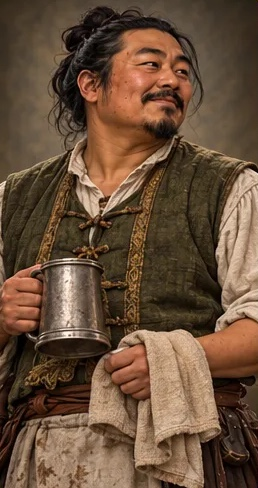
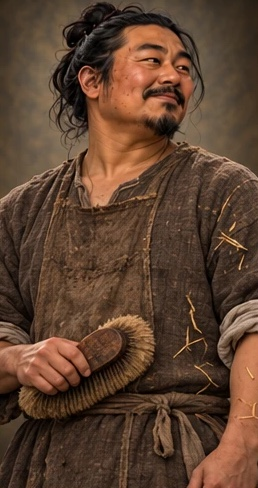
Replace the townsfolk paintings and match their map figures to the new ones
Use these images for townsfolk instead of the ones I gave you before.

diff --git a/Sources/Ezerian/ArtPainted.swift b/Sources/Ezerian/ArtPainted.swift
@@ -3,13 +3,13 @@ import simd
 
 /// Folk with painted portraits, by trade: the bards, the peasants and the human
 /// townsmen and townswomen. Each one's figure on the map wears the painting's colours
-/// and hat, and holds what they hold in it (an instrument, a hoe, a loaf, a tankard). The bard sheet's horned, red-skinned fiddler belongs
+/// and hat, and holds what they hold in it (an instrument, a hoe, a loaf, a broom). The bard sheet's horned, red-skinned fiddler belongs
 /// to no race of Ezerian, so bard painting 4 is not used.
 enum PaintedFolk {
     enum Prop {
         case lute, lyre, drum, flute, harp, tambourine, hurdyGurdy
         case hoe, flourSack, woodAxe, crook, net, vegetables, loaf, spindle, bucket, herbs
-        case scales, hammer, book, boot, tankard, cloth, jug, mortar, hoop, candles
+        case sack, rope, broom, tray, brush, laundry, jug, pot, crate
     }
     enum Hat { case none, feather, straw, cap(UInt32), scarf(UInt32), hood }
 
@@ -81,30 +81,31 @@ enum PaintedFolk {
 
     /// Human townsmen and townswomen, each with the tools or wares of a town trade.
     static let townsfolk: [Painted] = [
-        Painted(role: "townsperson", painting: "townsfolk-0", look: look(.human, female: false, skin: 0xE0A882, hair: 0x5A4A3A, tunic: 0x7A1E2A,
-                                                                        legs: 0x3A2A22, cape: 0x5A3A22, longHair: false, beard: true),
-                prop: .scales, hat: .cap(0x6A1A24)),
-        Painted(role: "townsperson", painting: "townsfolk-1", look: look(.human, female: false, skin: 0x4A2E1E, hair: 0x1A1410, tunic: 0xD8CCB0,
-                                                                        legs: 0x4A3A2A, longHair: false, beard: true), prop: .hammer, apron: leather),
-        Painted(role: "townsperson", painting: "townsfolk-2", look: look(.human, female: false, skin: 0xE0B890, hair: 0xC8C4C0, tunic: 0x1E2448,
-                                                                        legs: 0x1E2448, longHair: false, beard: true, dress: true),
-                prop: .book, hat: .cap(0x1E2448)),
-        Painted(role: "townsperson", painting: "townsfolk-3", look: look(.human, female: false, skin: 0xC8946A, hair: 0x2A1A10, tunic: 0x8A3A2A,
-                                                                        legs: 0x4A3A2A, longHair: false, beard: true), prop: .boot, apron: 0x6A4A2A),
-        Painted(role: "townsperson", painting: "townsfolk-4", look: look(.human, female: false, skin: 0xD8A87A, hair: 0x1A1410, tunic: 0x3A4A2A,
-                                                                        legs: 0x4A3A2A, longHair: false, beard: true), prop: .tankard, apron: linen),
-        Painted(role: "townsperson", painting: "townsfolk-5", look: look(.human, female: true, skin: 0x4A2E1E, hair: 0x1A1410, tunic: 0x1E4A5A,
-                                                                        legs: 0x1E4A5A, cape: 0x1E4A5A, longHair: true, dress: true), prop: .cloth),
-        Painted(role: "townsperson", painting: "townsfolk-6", look: look(.human, female: true, skin: 0xF0C8A0, hair: 0xB8481E, tunic: 0xD8CCB0,
-                                                                        legs: 0x8A5A34, longHair: false, dress: true),
-                prop: .jug, hat: .scarf(0xD8CCB0), apron: 0x8A5A34),
-        Painted(role: "townsperson", painting: "townsfolk-7", look: look(.human, female: true, skin: 0xB8805A, hair: 0x8A8680, tunic: 0x4A2236,
-                                                                        legs: 0x4A2236, longHair: true, dress: true), prop: .mortar),
-        Painted(role: "townsperson", painting: "townsfolk-8", look: look(.human, female: true, skin: 0xE8C0A0, hair: 0xC8C4C0, tunic: 0x4A5A32,
-                                                                        legs: 0x4A5A32, cape: 0x7A2A22, longHair: false, dress: true),
-                prop: .hoop, hat: .scarf(0xD8CCB0), apron: linen),
-        Painted(role: "townsperson", painting: "townsfolk-9", look: look(.human, female: true, skin: 0xF0D0B0, hair: 0x1A1410, tunic: 0xB08A3A,
-                                                                        legs: 0xB08A3A, longHair: false, dress: true), prop: .candles, apron: linen),
+        Painted(role: "townsperson", painting: "townsfolk-0", look: look(.human, female: false, skin: 0xE8A88A, hair: 0x4A4440, tunic: 0x5A3A22,
+                                                                        legs: 0x4A3A2A, longHair: false, beard: true), prop: .sack),
+        Painted(role: "townsperson", painting: "townsfolk-1", look: look(.human, female: false, skin: 0x3A2418, hair: 0x14100C, tunic: 0xB8AA90,
+                                                                        legs: 0x5A4A3A, longHair: false), prop: .rope),
+        Painted(role: "townsperson", painting: "townsfolk-2", look: look(.human, female: false, skin: 0xE0B090, hair: 0xC8C4C0, tunic: 0x5A6044,
+                                                                        legs: 0x4A4A3A, longHair: false, beard: true),
+                prop: .broom, hat: .cap(0x5A5650)),
+        Painted(role: "townsperson", painting: "townsfolk-3", look: look(.human, female: false, skin: 0xD8A27A, hair: 0x2A1A10, tunic: 0xD8CCB0,
+                                                                        legs: 0x5A4A3A, longHair: false, beard: true), prop: .tray, apron: 0xC8B898),
+        Painted(role: "townsperson", painting: "townsfolk-4", look: look(.human, female: false, skin: 0xD8A87A, hair: 0x14100C, tunic: 0x4A4038,
+                                                                        legs: 0x3A342E, longHair: false, beard: true), prop: .brush, apron: 0x5A4E42),
+        Painted(role: "townsperson", painting: "townsfolk-5", look: look(.human, female: true, skin: 0x3A2418, hair: 0x14100C, tunic: 0x3A4A6A,
+                                                                        legs: 0x3A4A6A, longHair: false, dress: true),
+                prop: .laundry, hat: .scarf(0xD8CCB0)),
+        Painted(role: "townsperson", painting: "townsfolk-6", look: look(.human, female: true, skin: 0xF0C8A8, hair: 0xB8481E, tunic: 0x6A4A2E,
+                                                                        legs: 0x6A4A2E, longHair: false, dress: true),
+                prop: .jug, hat: .scarf(0xD8CCB0), apron: linen),
+        Painted(role: "townsperson", painting: "townsfolk-7", look: look(.human, female: true, skin: 0xB8805A, hair: 0x8A8680, tunic: 0x4A4A50,
+                                                                        legs: 0x4A4A50, longHair: true, dress: true),
+                prop: .pot, hat: .scarf(0xD8CCB0), apron: 0xC8B898),
+        Painted(role: "townsperson", painting: "townsfolk-8", look: look(.human, female: true, skin: 0xE8C0A0, hair: 0xD8D4D0, tunic: 0x6A5440,
+                                                                        legs: 0x6A5440, cape: 0x4A3028, longHair: false, dress: true),
+                prop: .bucket, hat: .scarf(0xD8CCB0), apron: linen),
+        Painted(role: "townsperson", painting: "townsfolk-9", look: look(.human, female: true, skin: 0xF0D0B0, hair: 0x14100C, tunic: 0x4A5438,
+                                                                        legs: 0x4A5438, longHair: false, dress: true), prop: .crate),
     ]
 
     /// The person facing south, built on an ordinary figure, with hat, apron and prop.
@@ -180,45 +181,39 @@ enum PaintedFolk {
             m.rod(V3(1.6, 4.2, 13.6), V3(3.4, 4.4, 20), 0.6, Paint(0x4A6A2A, .cloth))
             m.blob(3.4, 4.4, 20.6, 1.6, 1.2, 1.6, Paint(0x5A7A34, .cloth, jitter: 0.12))
             m.ball(3.8, 4.8, 21.6, 0.6, Paint(0x8A6AB0))
-        case .scales:
-            m.rod(V3(-1.6, 4.2, 22), V3(-1.6, 4.2, 18.6), 0.25, brass)
-            m.rod(V3(-3.6, 4.2, 18.6), V3(0.4, 4.2, 18.6), 0.3, brass)
-            m.blob(-3.6, 4.2, 16.4, 1.2, 1.2, 0.35, brass)
-            m.blob(0.4, 4.2, 16.4, 1.2, 1.2, 0.35, brass)
-            m.blob(2.4, 4, 15.6, 1.3, 1.1, 1.5, Paint(0x6A4228))
-        case .hammer:
-            m.rod(V3(3.6, 4, 12.4), V3(0.6, 4.2, 19.6), 0.5, pale)
-            m.box(-0.8, 3.4, 19, 2, 5, 21, iron)
-        case .book:
-            m.box(-0.6, 3.6, 13.6, 3.6, 5, 19.4, Paint(0x6A3A1E, jitter: 0.05))
-            m.rod(V3(-2.4, 4.4, 17), V3(-3.8, 4.8, 22.4), 0.35, Paint(0xF0ECE4, .hair))
-        case .boot:
-            m.box(0, 3.8, 15, 1.8, 5.6, 19.4, Paint(0x7A4A28, jitter: 0.05))
-            m.box(0, 3.8, 15, 1.8, 7.8, 16.4, Paint(0x7A4A28, jitter: 0.05))
-        case .tankard:
-            m.cone(-1.6, 4.4, 1.1, 1, 17, 20.2, iron)
-            m.rod(V3(-2.8, 4.4, 18), V3(-2.8, 4.4, 19.6), 0.35, iron)
-            m.blob(1.6, 4.4, 15.4, 1.6, 1, 2.2, linen)
-        case .cloth:
-            for (i, c) in [0x8A1E2A, 0x26408A, 0xB08A2A, 0x8A1E2A].enumerated() {
-                m.box(-3, 3.6, 13.2 + Float(i) * 1.1, 3.4, 6, 14.2 + Float(i) * 1.1, Paint(UInt32(c), .cloth, jitter: 0.06))
+        case .sack:
+            // Slung over the right shoulder.
+            m.blob(4.2, 1.6, 22.4, 2.4, 2.2, 3.4, Paint(0xB8A478, .cloth, jitter: 0.1))
+            m.ball(3.4, 3.2, 25.6, 1.1, Paint(0xB8A478, .cloth, jitter: 0.1))
+        case .rope:
+            for i in 0..<3 { m.blob(1, 4.2 + Float(i) * 0.3, 14.4 + Float(i) * 0.5, 3.2 - Float(i) * 0.3, 0.7, 3.2 - Float(i) * 0.3,
+                                    Paint(0xB89A68, .cloth, jitter: 0.1)) }
+        case .broom:
+            m.rod(V3(6.2, 1.8, 3.4), V3(7.6, 1.2, 35), 0.6, pale)
+            m.cone(6.1, 1.9, 0.6, 1.8, 0.4, 4.6, Paint(0x8A6A3A, .cloth, jitter: 0.12))
+        case .tray:
+            m.blob(0.6, 5, 15.6, 4.6, 2.6, 0.45, dark)
+            for dx: Float in [-1.4, 2.4] {
+                m.cone(0.6 + dx, 5, 0.9, 0.9, 15.9, 18.2, Paint(0x8A4A2A, jitter: 0.06, shine: 0.3))
+            }
+        case .brush:
+            m.blob(1.6, 4.4, 15, 2, 1, 0.8, wood)
+            m.blob(1.6, 4.4, 14, 1.9, 0.9, 0.6, Paint(0xC8A870, .hair))
+        case .laundry:
+            for (i, c) in [0xDCD4C0, 0x5A6A8A, 0xD0C8B0, 0x7A8AA0].enumerated() {
+                m.blob(0.8, 4.4, 13.8 + Float(i) * 1.3, 3.8 - Float(i) * 0.3, 2, 1, Paint(UInt32(c), .cloth, jitter: 0.08))
             }
         case .jug:
             m.blob(0.6, 4.8, 15.6, 2.4, 2, 2.8, Paint(0xA8562A, jitter: 0.06, shine: 0.25))
             m.cone(0.6, 4.8, 1.4, 1.1, 17.8, 19.6, Paint(0xA8562A, jitter: 0.06, shine: 0.25))
             m.blob(0.6, 4.8, 16, 2.45, 2.05, 0.4, Paint(0x3A7A6A))
-        case .mortar:
-            m.cone(1.8, 4.6, 1.8, 1.2, 14.6, 16.8, Paint(0xA8A4A0, jitter: 0.08))
-            m.rod(V3(1.8, 4.6, 16.2), V3(2.8, 4.2, 18.8), 0.35, Paint(0xA8A4A0))
-            m.cone(-2.4, 4.2, 0.8, 0.5, 17, 19.4, Paint(0x7A3A12, shine: 0.4))
-        case .hoop:
-            m.blob(0.6, 4.6, 16.8, 2.8, 0.4, 2.8, Paint(0xA07A48))
-            m.blob(0.6, 4.9, 16.8, 2.4, 0.3, 2.4, Paint(0xE8E0CC, .cloth))
-            m.ball(0, 5.1, 17.2, 0.5, Paint(0x8A6AB0))
-            m.ball(1.2, 5.1, 16.4, 0.5, Paint(0xC8802A))
-        case .candles:
-            for dx: Float in [-1.2, -0.4, 0.4, 1.2] { m.rod(V3(dx, 4.4, 13.4), V3(dx + 1.6, 4.6, 21), 0.4, Paint(0xF0E0A0)) }
-            m.blob(1.2, 4.6, 17.2, 2, 0.9, 0.4, Paint(0x8A6A3A))
+        case .pot:
+            m.cone(0.6, 4.8, 2.8, 2.4, 13, 17, Paint(0x3A3632, .metal, jitter: 0.08, shine: 0.25))
+            m.rod(V3(-2.2, 4.8, 17), V3(3.4, 4.8, 17), 0.3, Paint(0x3A3632, .metal))
+            m.blob(-1.6, 3.8, 14.4, 1.2, 0.6, 2.2, linen)
+        case .crate:
+            m.box(-3.2, 3.6, 12.6, 4.2, 7.2, 17.4, Paint(0x6A4A2A, .wood(1), jitter: 0.08))
+            m.box(-3.3, 3.5, 14.8, 4.3, 7.3, 15.3, dark)
         }
         switch p.hat {
         case .none: break

diff --git a/README.md b/README.md
@@ -181,10 +181,11 @@ their old clothes and pixel portraits.
 
 Human townsmen and townswomen each look like one of ten painted townsfolk of their
 sex, shown when you talk to them, and on the map wear that painting's colours and
-carry its wares: a merchant with his scales and purse, a smith with his hammer, an
-old scribe with a book and quill, a cobbler with a boot, and a tavern keeper with a
-tankard; a cloth merchant with bolts of cloth, a potter with a jug, an apothecary with
-mortar and bottle, an old embroiderer with her hoop, and a chandler with candles.
+carry what the painting shows: a porter with a sack on his shoulder, a ropemaker with
+a coil of rope, an old sweeper with his broom, a potboy with a tray of mugs, and a
+groom with a brush; a laundress with an armful of washing, a girl with a clay jug, a
+cook with an iron pot, an old charwoman with bucket and brush, and a girl carrying a
+crate.
 Elf and dwarf townsfolk keep their ordinary looks, as do townsfolk met before this.
 
 ## Lord Draconian
